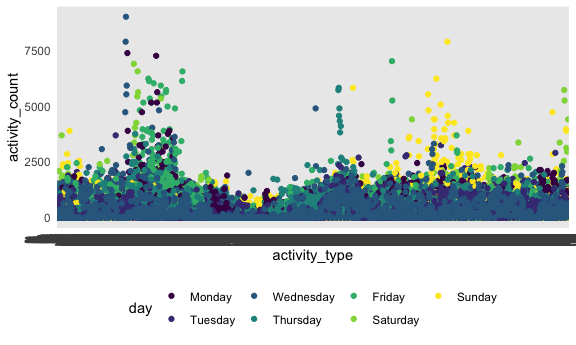
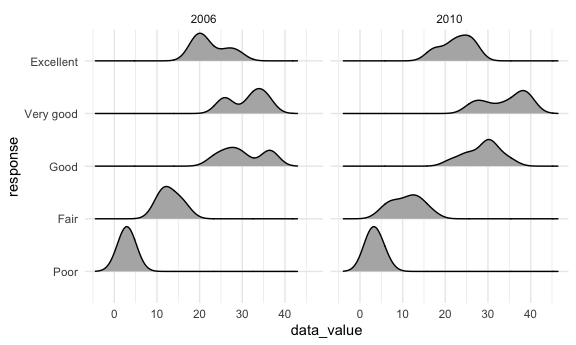
Fixing problem 1 and problem 2 (second draft)

diff --git a/p8105_hw3_sl4836.md b/p8105_hw3_sl4836.md
@@ -91,17 +91,36 @@ Arranged_aisles <- instacart %>%
   summarise(n = n()) %>% 
   arrange(desc(n))
 
+Arranged_aisles
+```
+
+    ## # A tibble: 134 × 2
+    ##    aisle                              n
+    ##    <chr>                          <int>
+    ##  1 fresh vegetables              150609
+    ##  2 fresh fruits                  150473
+    ##  3 packaged vegetables fruits     78493
+    ##  4 yogurt                         55240
+    ##  5 packaged cheese                41699
+    ##  6 water seltzer sparkling water  36617
+    ##  7 milk                           32644
+    ##  8 chips pretzels                 31269
+    ##  9 soy lactosefree                26240
+    ## 10 bread                          23635
+    ## # … with 124 more rows
+
+There are 134 aisles. Fresh vegetables aisles are the most items ordered
+from.
+
+``` r
 Arranged_aisles %>% 
   filter(n>10000) %>%
   ggplot(aes(x = reorder(aisle, n), y = n)) + 
-  geom_point() + 
+  geom_bar(stat = "identity") + 
   coord_flip()
 ```
 
-<img src="p8105_hw3_sl4836_files/figure-gfm/unnamed-chunk-4-1.png" width="90%" />
-
-1.  There are 134 aisles. Fresh vegetables aisles are the most items
-    ordered from.
+<img src="p8105_hw3_sl4836_files/figure-gfm/unnamed-chunk-6-1.png" width="90%" />
 
 ``` r
 options(knitr.kable.NA = 0)
@@ -169,11 +188,11 @@ devtools::install_github("p8105/p8105.datasets")
 ``` r
 library(p8105.datasets)
 
-data("brfss_smart2010")
+data("brfss_smart2010") 
 ```
 
 ``` r
-brfss <- brfss_smart2010
+brfss <- brfss_smart2010 
 
 
 brfss_clean <- brfss %>% 
@@ -181,8 +200,7 @@ brfss_clean <- brfss %>%
   filter(topic == "Overall Health") %>%
   filter(response == "Excellent" | response == "Very good" | 
            response == "Good" | response == "Fair" | response == "Poor") %>%
-  mutate(response = as.factor(response)) %>% 
-  mutate(response = response %>% fct_relevel("Poor", "Fair", "Good", "Very good", "Excellent"))
+  mutate(response = as.factor(response) %>% fct_relevel("Poor", "Fair", "Good", "Very good", "Excellent")) 
 ```
 
 ``` r
@@ -234,21 +252,18 @@ brfss_clean %>%
 ``` r
 brfss_clean %>% 
   filter(response == "Excellent") %>% 
-  select(year, locationabbr, data_value) %>% 
   group_by(year, locationabbr) %>%
-  summarise(mean_data_value = mean(data_value)) %>%
+  summarise(mean_data_value = mean(data_value, na.rm=T)) %>%
   ggplot(aes(year, mean_data_value, color=locationabbr)) + 
   geom_point(size=0.2) + 
-  geom_line(aes(group=locationabbr, alpha = 0.2))
+  geom_line(aes(group=locationabbr, alpha = 0.2)) +
+  viridis::scale_color_viridis(name = "Location", discrete =TRUE) +
+  theme(legend.position = "right")
 ```
 
     ## `summarise()` has grouped output by 'year'. You can override using the `.groups` argument.
 
-    ## Warning: Removed 4 rows containing missing values (geom_point).
-
-    ## Warning: Removed 3 row(s) containing missing values (geom_path).
-
-<img src="p8105_hw3_sl4836_files/figure-gfm/unnamed-chunk-10-1.png" width="90%" />
+<img src="p8105_hw3_sl4836_files/figure-gfm/unnamed-chunk-12-1.png" width="90%" />
 
 ``` r
 library(ggridges)
@@ -263,7 +278,8 @@ brfss_clean %>% filter(year == 2006 | year == 2010 ) %>% filter(locationabbr == 
 
     ## Picking joint bandwidth of 2.03
 
-<img src="p8105_hw3_sl4836_files/figure-gfm/unnamed-chunk-11-1.png" width="90%" />
+<img src="p8105_hw3_sl4836_files/figure-gfm/unnamed-chunk-13-1.png" width="90%" />
+\#Problem 3
 
 ``` r
 accel <- read.csv("~/Downloads/accel_data.csv") 
@@ -271,16 +287,38 @@ accel <- read.csv("~/Downloads/accel_data.csv")
 clean_accel <- accel %>% 
   janitor::clean_names() %>% 
   pivot_longer(activity_1:activity_1440, 
-               names_to = "activity_type", values_to = "activity_count") %>%
+               names_to = "minutes_in_a_day", values_to = "activity_count", names_prefix =  "activity_") %>%
   mutate(day = day %>% 
-           fct_relevel("Monday", "Tuesday", "Wednesday", 
-                       "Thursday","Friday", "Saturday", "Sunday")) %>% 
+           fct_relevel("Sunday", "Monday", "Tuesday", "Wednesday", 
+                       "Thursday","Friday", "Saturday")) %>% 
   mutate(weekday_vs_weekend = ifelse(day %in% c("Monday", "Tuesday", "Wednesday", 
-                       "Thursday","Friday"), "weekday","weekend")) %>% view()
-  
-  #pivot_wider(names_from = day, values_from = "activity_count") %>% 
-  #relocate(Monday, Tuesday, Wednesday, Thursday, Friday, Saturday, Sunday) %>% view
+                       "Thursday","Friday"), "weekday","weekend")) %>% 
+  mutate_if(is.double, as.integer) %>%
+  mutate(minutes_in_a_day = as.integer(minutes_in_a_day))
+```
 
+``` r
+accel_row <- accel %>% nrow()
+accel_col <- accel %>% ncol()
+accel_names <- accel %>% names()
+
+
+clean_accel_row <- clean_accel %>% nrow()
+clean_accel_col <- clean_accel %>% ncol()
+clean_accel_names <- clean_accel %>% names()
+```
+
+Originally, the dimension of the pols\_month\_data was **35 x** **1443**
+and there are **1443** variables. This represents one person’s activity
+data for **35 x** days. After tidying and wrangling the data, the
+dimension is **50400 x** **6** and **6** variables: *week, day\_id, day,
+minutes\_in\_a\_day, activity\_count, weekday\_vs\_weekend.* There are
+**50400** number of observations,this is the total of 1440 minutes of
+each day’s combined data (**1440x35 =** **50400**).
+
+\#part 2
+
+``` r
 clean_accel %>% 
   group_by(day) %>% 
   summarize(total = sum(activity_count)) %>% 
@@ -289,19 +327,25 @@ clean_accel %>%
 
 |    day    |  total  |
 |:---------:|:-------:|
-|  Monday   | 1858699 |
-|  Tuesday  | 1799238 |
-| Wednesday | 2129772 |
-| Thursday  | 2091151 |
-|  Friday   | 2291711 |
-| Saturday  | 1369237 |
 |  Sunday   | 1919213 |
+|  Monday   | 1858545 |
+|  Tuesday  | 1798521 |
+| Wednesday | 2129059 |
+| Thursday  | 2090445 |
+|  Friday   | 2291448 |
+| Saturday  | 1369237 |
+
+\#Part 3
 
 ``` r
 clean_accel %>%
-  group_by(day, activity_type) %>%
-  ggplot(aes(activity_type, activity_count, color = day)) +
-  geom_point() 
+  group_by(day, minutes_in_a_day) %>%
+  ggplot(aes(minutes_in_a_day, activity_count, color = day)) +
+  geom_point() +
+  scale_x_continuous(
+    breaks = c(0, 180, 360, 540, 720, 900, 1080, 1260, 1440),
+    labels = c("0hr", "3hr", "6hr", "9hr", "12hr", "15hr", "18hr", "21hr", "24hr")
+  )
 ```
 
-<img src="p8105_hw3_sl4836_files/figure-gfm/unnamed-chunk-13-1.png" width="90%" />
+<img src="p8105_hw3_sl4836_files/figure-gfm/unnamed-chunk-17-1.png" width="90%" />
